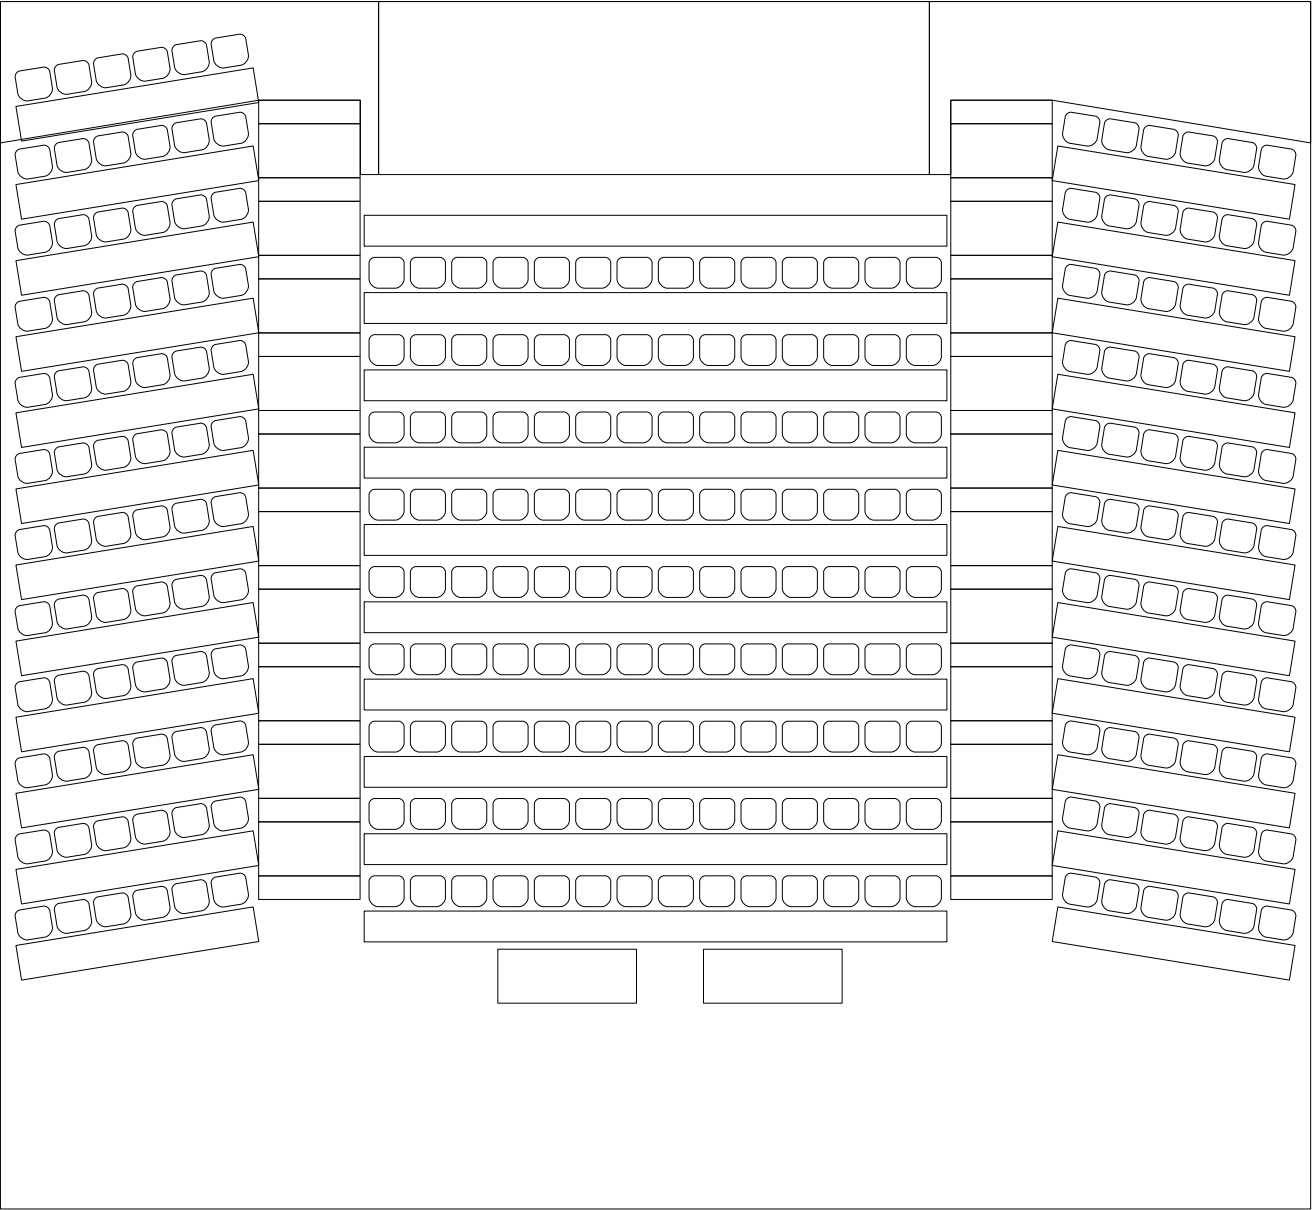
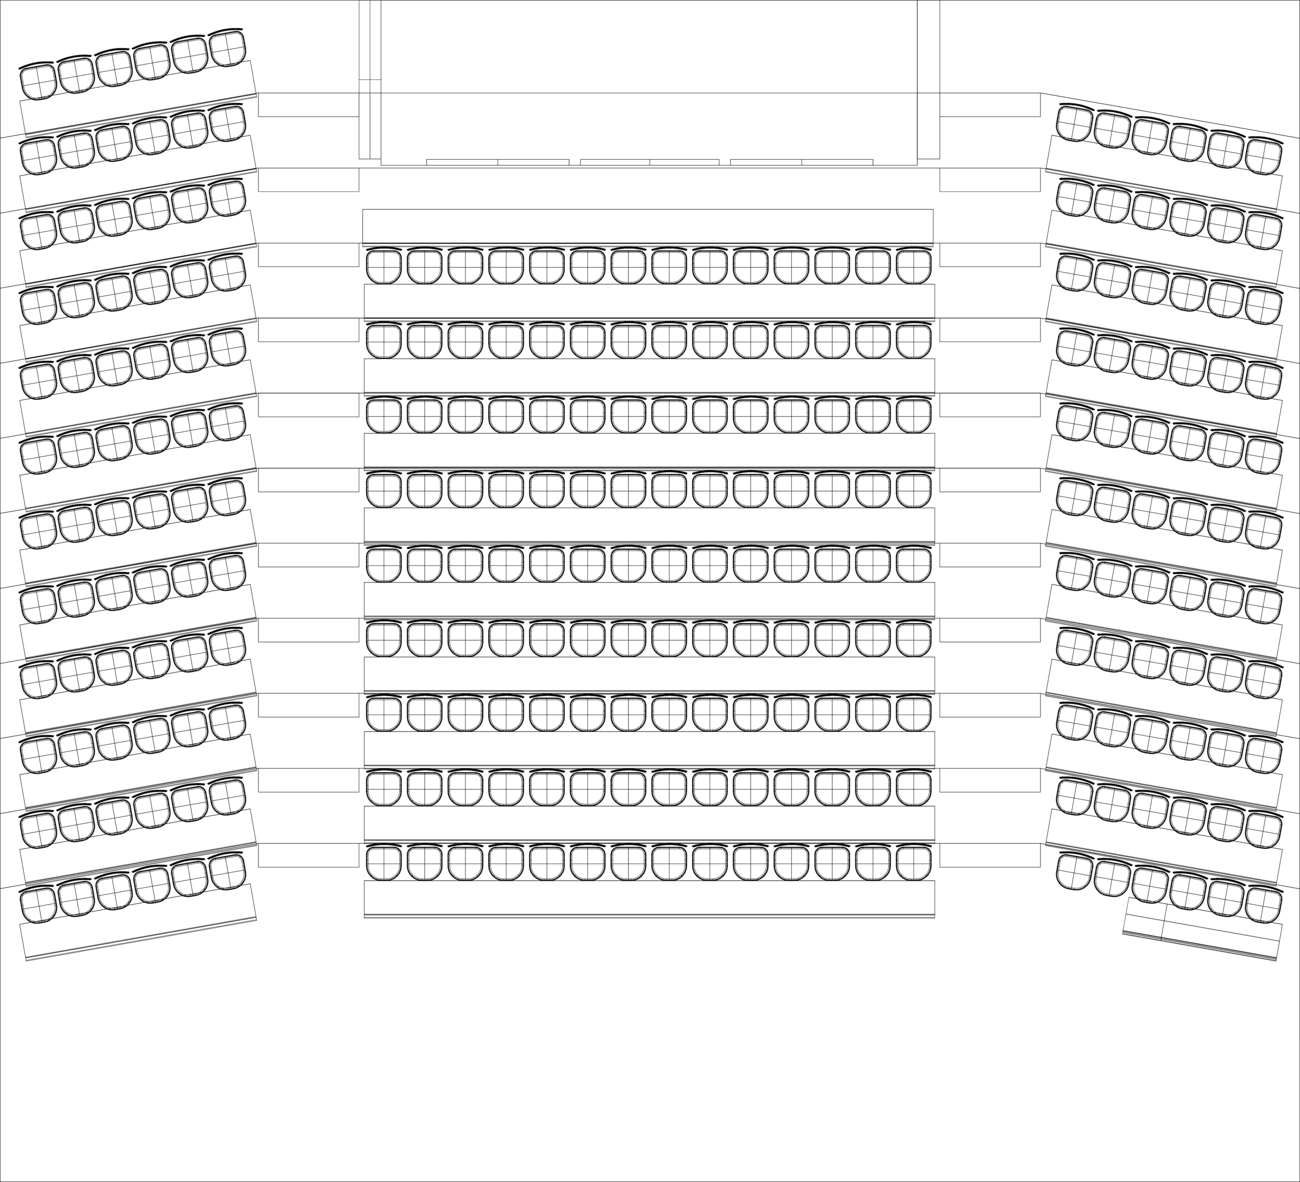
updated the LT1 plan
replaced the old LT1 floorplan from 2021-2022 with the one that's matching the 3D model of LT1 in Unity (created from the original LT1 drawings)

diff --git a/img_transform/index.html b/img_transform/index.html
@@ -200,7 +200,7 @@ class ImgTransform {
 </div>
 
 <div id="workarea">
-    <img id="photo" src="images/lt1-rpi1-20221025-113048-6350.jpg"/>
+    <img id="photo" src="images/lt1-rpi1-20221111-121015-9850.jpg"/>
     <img id="overlay" src="images/LT1_seating.png"/>
     <svg id="svg" xmlns="http://www.w3.org/2000/svg" width="2592" height="1944" viewBox="0 0 2592 1944" >
         <defs>
